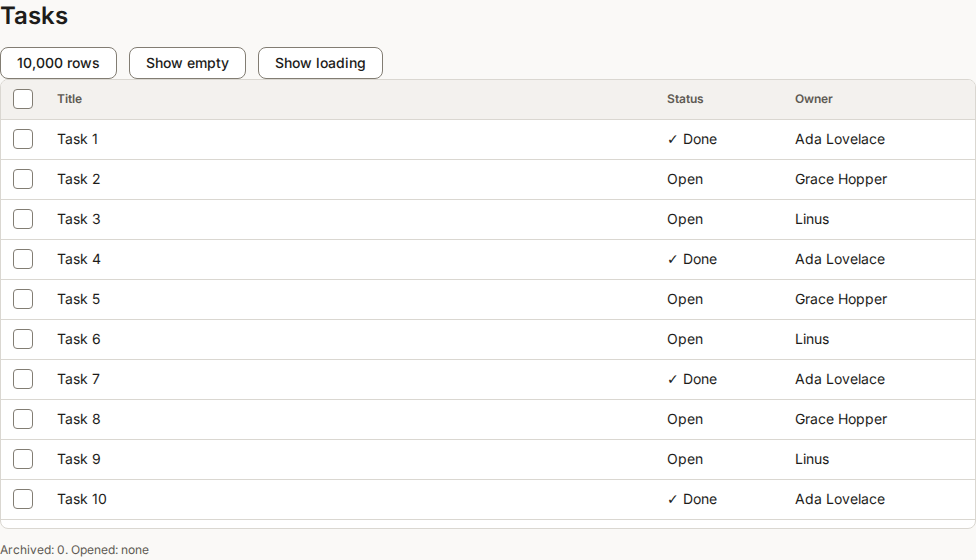
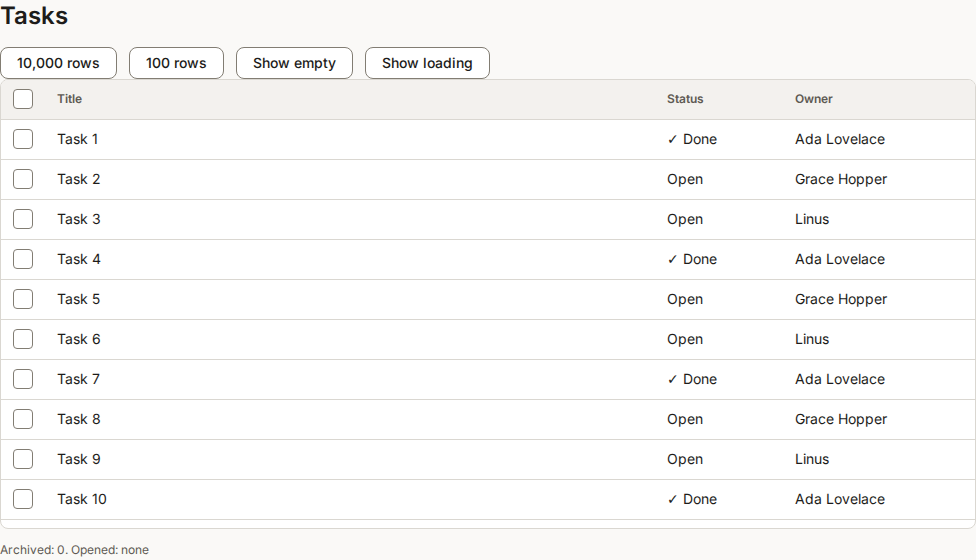
Fix second DataTable review round
Keep the Shift anchor as a row id, so a change of rows cannot point it
at another row or add an unknown id. Scroll to the focused row only
when focus is on a row, and scroll back to the row when the bar gives
focus up. Measure the gap under the bar. Let the bar wrap at 320px. Use
an agd- class for a selected row. Document tab stops and selection.

Changed region(s): [[0.1537, 0.0911, 0.4918, 0.1518]]

diff --git a/src/components/data-table.tsx b/src/components/data-table.tsx
@@ -10,7 +10,7 @@ export interface DataTableColumn<T> {
   /** The column name. Always text, so a screen reader can read it. */
   header: string;
   cell: (row: T) => ReactNode;
-  /** A CSS length, for example `12rem`. The default shares the rest of the width, and is never under 8rem. */
+  /** A fixed CSS length such as `12rem` or `120px`. Not `fr` or `minmax`. The default shares the rest of the width, and is never under 8rem. */
   width?: string;
 }
 
@@ -39,13 +39,12 @@ export interface DataTableProps<T> {
   bulkActions?: (selected: ReadonlySet<string>) => ReactNode;
   /** Called on Enter or double click on a row. */
   onRowActivate?: (row: T) => void;
-  /** Shown above the grid, for example a `DataTableToolbar`. */
+  /** Shown above the grid. */
   toolbar?: ReactNode;
 }
 
 const CHECK_WIDTH = "2.75rem";
 const FLEX_MIN = "8rem";
-const BAR_GAP = 12;
 const PLACEHOLDERS = 8;
 const noRows: readonly never[] = [];
 
@@ -53,6 +52,7 @@ const noRows: readonly never[] = [];
  * A table for many rows. Only the rows in view are in the page, so 10,000 rows scroll smoothly.
  * It is a grid. The rows are one tab stop, and arrow keys, Home, End, and Page Up and Down move between them.
  * Space selects a row, Shift with a click or Space selects a range, Enter opens a row, and Escape clears the selection.
+ * Keep focusable controls out of cells: each one adds a tab stop. A selection keeps the ids of rows that are out of the list, and they count again when the rows return.
  */
 export function DataTable<T>({
   label, rows, columns, getRowId, rowLabel, rowHeight = 40, height = "28rem", loading = false, empty,
@@ -96,16 +96,17 @@ export function DataTable<T>({
   const [activeRaw, setActive] = useState(0);
   const active = Math.min(activeRaw, Math.max(0, count - 1));
   const wantFocus = useRef(false);
-  const anchor = useRef(0);
+  const anchor = useRef<string | null>(null);
   const barVisible = selectable && selected.size > 0 && !loading;
   const [barSize, setBarSize] = useState(0);
-  const barHeight = barVisible ? barSize + BAR_GAP : 0;
+  const barHeight = barVisible ? barSize : 0;
   const bar = useRef<HTMLDivElement>(null);
   // The bar grows when its buttons wrap, so watch its size.
   useLayoutEffect(() => {
     const el = bar.current;
     if (!el) return;
-    const measure = () => setBarSize(el.offsetHeight);
+    // From the top of the bar to the bottom of the frame: the bar and the gap under it.
+    const measure = () => setBarSize((el.offsetParent?.clientHeight ?? el.offsetHeight) - el.offsetTop);
     measure();
     const observer = new ResizeObserver(measure);
     observer.observe(el);
@@ -132,12 +133,18 @@ export function DataTable<T>({
   const barWas = useRef(false);
   useLayoutEffect(() => {
     const el = scroller.current;
-    if (barVisible && el) {
-      const next = scrollToRow(active, el.scrollTop, el.clientHeight, rowHeight, rowHeight, barHeight);
+    // Move only when focus is on a row. A click on select-all must not pull the grid back to the top.
+    const focusedRow = document.activeElement?.closest<HTMLElement>("[data-index]");
+    if (barVisible && el && focusedRow && el.contains(focusedRow)) {
+      const next = scrollToRow(Number(focusedRow.dataset.index), el.scrollTop, el.clientHeight, rowHeight, rowHeight, barHeight);
       if (next !== el.scrollTop) el.scrollTop = next;
     }
     if (barWas.current && !barVisible && count > 0 && (!document.activeElement || document.activeElement === document.body)) {
-      el?.querySelector<HTMLElement>(`[data-index="${active}"]`)?.focus({ preventScroll: true });
+      if (el) {
+        const next = scrollToRow(active, el.scrollTop, el.clientHeight, rowHeight, rowHeight, 0);
+        if (next !== el.scrollTop) el.scrollTop = next;
+        el.querySelector<HTMLElement>(`[data-index="${active}"]`)?.focus({ preventScroll: true });
+      }
     }
     barWas.current = barVisible;
   }, [barVisible, barHeight]); // eslint-disable-line react-hooks/exhaustive-deps
@@ -148,15 +155,17 @@ export function DataTable<T>({
 
   const toggle = (index: number, withRange: boolean) => {
     const next = new Set(selected);
-    if (withRange) {
-      const [from, to] = [Math.min(anchor.current, index), Math.max(anchor.current, index)];
+    // The anchor is an id, so a change of rows cannot point it at another row. A lost anchor makes a plain toggle.
+    const from = withRange && anchor.current !== null ? ids.indexOf(anchor.current) : -1;
+    if (from >= 0) {
+      const [lo, hi] = [Math.min(from, index), Math.max(from, index)];
       const on = !selected.has(ids[index] as string);
-      for (let i = from; i <= to; i++) on ? next.add(ids[i] as string) : next.delete(ids[i] as string);
+      for (let i = lo; i <= hi; i++) on ? next.add(ids[i] as string) : next.delete(ids[i] as string);
     } else {
       const id = ids[index] as string;
       next.has(id) ? next.delete(id) : next.add(id);
-      anchor.current = index;
     }
+    anchor.current = ids[index] as string;
     setSelected(next);
   };
 
@@ -200,7 +209,7 @@ export function DataTable<T>({
 
   const tracks = [selectable ? CHECK_WIDTH : null, ...columns.map((c) => c.width ?? `minmax(${FLEX_MIN}, 1fr)`)].filter(Boolean).join(" ");
   // The head and every row share one width. It is the sum of the minimums, so a narrow screen scrolls sideways.
-  const minWidth = `calc(${[selectable ? CHECK_WIDTH : null, ...columns.map((c) => c.width ?? FLEX_MIN)].filter(Boolean).join(" + ")})`;
+  const minWidth = `calc(${[selectable ? CHECK_WIDTH : null, ...columns.map((c) => (c.width && !/fr|minmax/.test(c.width) ? c.width : FLEX_MIN))].filter(Boolean).join(" + ")})`;
   const style = { "--agd-dt-cols": tracks, "--agd-dt-min": minWidth, "--agd-dt-row": `${rowHeight}px`, "--agd-dt-height": typeof height === "number" ? `${height}px` : height } as CSSProperties;
   const nameOf = (row: T) => rowLabel?.(row) ?? getRowId(row);
   const status = loading ? "Loading rows" : selectable && selected.size > 0 ? `${selected.size} of ${count} selected` : "";
@@ -259,7 +268,7 @@ export function DataTable<T>({
                       key={id}
                       role="row"
                       data-index={i}
-                      className={cx("agd-datatable__row", "agd-datatable__row--body", isSelected && "is-selected")}
+                      className={cx("agd-datatable__row", "agd-datatable__row--body", isSelected && "agd-datatable__row--selected")}
                       style={{ top: i * rowHeight }}
                       aria-rowindex={i + 2}
                       aria-selected={selectable ? isSelected : undefined}

diff --git a/e2e/data.ui.spec.ts b/e2e/data.ui.spec.ts
@@ -123,7 +123,9 @@ test("the bar does not cover the row that has focus", async ({ page }) => {
   await page.keyboard.press("Space");
   const row = await page.locator('[data-index="8"]').boundingBox();
   const bar = await page.getByRole("region", { name: "Bulk actions" }).boundingBox();
-  expect((row?.y ?? 0) + (row?.height ?? 0)).toBeLessThanOrEqual(bar?.y ?? 0);
+  expect(row).not.toBeNull();
+  expect(bar).not.toBeNull();
+  expect(row!.y + row!.height).toBeLessThanOrEqual(bar!.y);
 });
 
 test("on a narrow screen the headers line up with the cells", async ({ page }) => {
@@ -132,5 +134,50 @@ test("on a narrow screen the headers line up with the cells", async ({ page }) =
   const grid = page.getByRole("grid", { name: "Tasks" });
   const header = await grid.getByRole("columnheader", { name: "Owner" }).boundingBox();
   const cell = await grid.getByRole("row", { name: /Task 1\b/ }).getByRole("gridcell").last().boundingBox();
-  expect(Math.abs((header?.x ?? 0) - (cell?.x ?? 99))).toBeLessThan(1);
+  expect(header).not.toBeNull();
+  expect(cell).not.toBeNull();
+  expect(Math.abs(header!.x - cell!.x)).toBeLessThan(1);
+});
+
+test("at 320px the bulk bar and its last button fit inside the table", async ({ page }) => {
+  await page.setViewportSize({ width: 320, height: 640 });
+  await page.goto("/data");
+  await page.getByRole("checkbox", { name: "Select Task 1", exact: true }).click();
+  const bar = await page.getByRole("region", { name: "Bulk actions" }).boundingBox();
+  const clear = await page.getByRole("button", { name: "Clear selection" }).boundingBox();
+  const frame = await page.getByRole("grid", { name: "Tasks" }).boundingBox();
+  expect(bar && clear && frame).toBeTruthy();
+  expect(clear!.x + clear!.width).toBeLessThanOrEqual(bar!.x + bar!.width);
+  expect(bar!.x + bar!.width).toBeLessThanOrEqual(frame!.x + frame!.width);
+});
+
+test("select-all after a wheel scroll does not move the grid", async ({ page }) => {
+  await page.goto("/data");
+  const grid = page.getByRole("grid", { name: "Tasks" });
+  await grid.evaluate((el) => { el.scrollTop = 200000; });
+  await expect(page.getByRole("row", { name: /Task 5001\b/ })).toBeVisible();
+  await page.getByRole("checkbox", { name: "Select all 10000 rows" }).click();
+  await expect(page.getByRole("region", { name: "Bulk actions" })).toBeVisible();
+  expect(await grid.evaluate((el) => el.scrollTop)).toBe(200000);
+});
+
+test("a range from a row that is gone becomes a plain pick", async ({ page }) => {
+  await page.goto("/data");
+  await page.locator('[data-index="0"]').focus();
+  await page.keyboard.press("End");
+  await page.keyboard.press("Space");
+  await page.getByRole("button", { name: "100 rows" }).click();
+  await page.getByRole("grid", { name: "Tasks" }).evaluate((el) => { el.scrollTop = 0; });
+  await page.getByRole("checkbox", { name: "Select Task 5", exact: true }).click({ modifiers: ["Shift"] });
+  await expect(page.getByRole("region", { name: "Bulk actions" })).toContainText("1 selected");
+});
+
+test("clearing the selection scrolls focus back into view", async ({ page }) => {
+  await page.goto("/data");
+  await page.getByRole("checkbox", { name: "Select Task 1", exact: true }).click();
+  const grid = page.getByRole("grid", { name: "Tasks" });
+  await grid.evaluate((el) => { el.scrollTop = 100000; });
+  await page.getByRole("button", { name: "Clear selection" }).click();
+  await expect(page.locator('[data-index="0"]')).toBeFocused();
+  expect(await grid.evaluate((el) => el.scrollTop)).toBe(0);
 });

diff --git a/src/styles/components.css b/src/styles/components.css
@@ -712,11 +712,12 @@
 .agd-datatable__inner { min-width: var(--agd-dt-min); }
 .agd-datatable__head { position: sticky; top: 0; z-index: 1; background: var(--agd-color-surface-sunken); }
 .agd-datatable__head .agd-datatable__row { border-bottom: 1px solid var(--agd-color-border); }
+/* The head row is one row high, and the scroll code relies on that. */
 .agd-datatable__row { box-sizing: border-box; display: grid; grid-template-columns: var(--agd-dt-cols); align-items: center; height: var(--agd-dt-row); }
 .agd-datatable__body { position: relative; }
 .agd-datatable__row--body { position: absolute; inset-inline: 0; border-bottom: 1px solid var(--agd-color-border); }
 .agd-datatable__row--body:hover { background: var(--agd-color-surface-sunken); }
-.agd-datatable__row--body.is-selected { background: var(--agd-color-accent-subtle); }
+.agd-datatable__row--body.agd-datatable__row--selected { background: var(--agd-color-accent-subtle); }
 .agd-datatable__row--body:focus-visible { outline: 2px solid var(--agd-color-focus); outline-offset: -2px; }
 .agd-datatable__cell { min-width: 0; padding: 0 var(--agd-space-3); overflow: hidden; text-overflow: ellipsis; white-space: nowrap; font-size: var(--agd-font-size-sm); }
 .agd-datatable__head .agd-datatable__cell { color: var(--agd-color-text-muted); font-size: var(--agd-font-size-xs); font-weight: var(--agd-font-weight-semibold); }
@@ -725,12 +726,12 @@
 .agd-datatable__state { position: absolute; inset: var(--agd-dt-row) 0 0; display: grid; place-items: center; }
 .agd-datatable__bar {
   position: absolute; inset-inline: var(--agd-space-3); inset-block-end: var(--agd-space-3);
-  display: flex; align-items: center; gap: var(--agd-space-3); padding: var(--agd-space-2) var(--agd-space-3);
+  display: flex; flex-wrap: wrap; align-items: center; gap: var(--agd-space-3); padding: var(--agd-space-2) var(--agd-space-3);
   border: 1px solid var(--agd-color-border); border-radius: var(--agd-radius-md); background: var(--agd-color-surface-raised);
   box-shadow: var(--agd-shadow-floating);
 }
 .agd-datatable__bar-count { font-size: var(--agd-font-size-sm); font-weight: var(--agd-font-weight-medium); }
 .agd-datatable__bar-actions { display: flex; flex: 1; flex-wrap: wrap; gap: var(--agd-space-2); }
 @media (forced-colors: active) {
-  .agd-datatable__row--body.is-selected { border-inline-start: 0.25rem solid Highlight; }
+  .agd-datatable__row--body.agd-datatable__row--selected { border-inline-start: 0.25rem solid Highlight; }
 }

diff --git a/src/demo/data-page.tsx b/src/demo/data-page.tsx
@@ -30,6 +30,7 @@ export function DataPage() {
         <h2 id="demo-data-h">Tasks</h2>
         <div className="demo-cluster">
           <Button onClick={() => setSize(10000)}>10,000 rows</Button>
+          <Button onClick={() => setSize(100)}>100 rows</Button>
           <Button onClick={() => setSize(0)}>Show empty</Button>
           <Button onClick={() => setState((s) => (s === "ready" ? "loading" : "ready"))}>{state === "ready" ? "Show loading" : "Show rows"}</Button>
         </div>

diff --git a/README.md b/README.md
@@ -102,7 +102,8 @@ themes.dark.accent; // "#8EA4FF"
   bar at the bottom with your `bulkActions` and "Clear selection". `loading` shows placeholders and says so to a
   screen reader. `empty` replaces the default empty state. The grid has one tab stop. Arrow keys, Home, End,
   and Page Up and Down move between rows. Space selects a row (with Shift, a range), Enter calls `onRowActivate`,
-  and Escape clears the selection.
+  and Escape clears the selection. Keep focusable controls out of cells, because each one adds a tab stop.
+  A selection keeps the ids of rows that leave the list, and they count again when the rows return.
 
 ```tsx
 <DataTable
